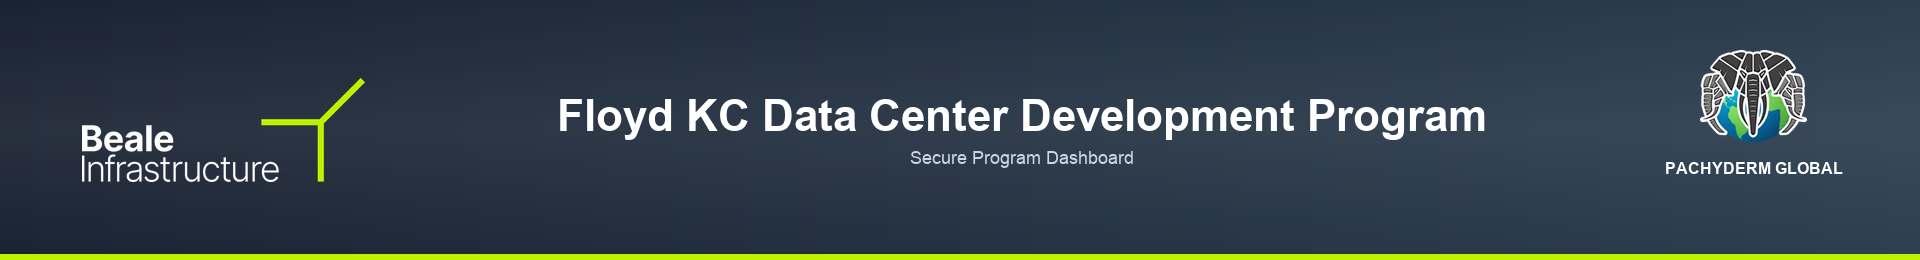
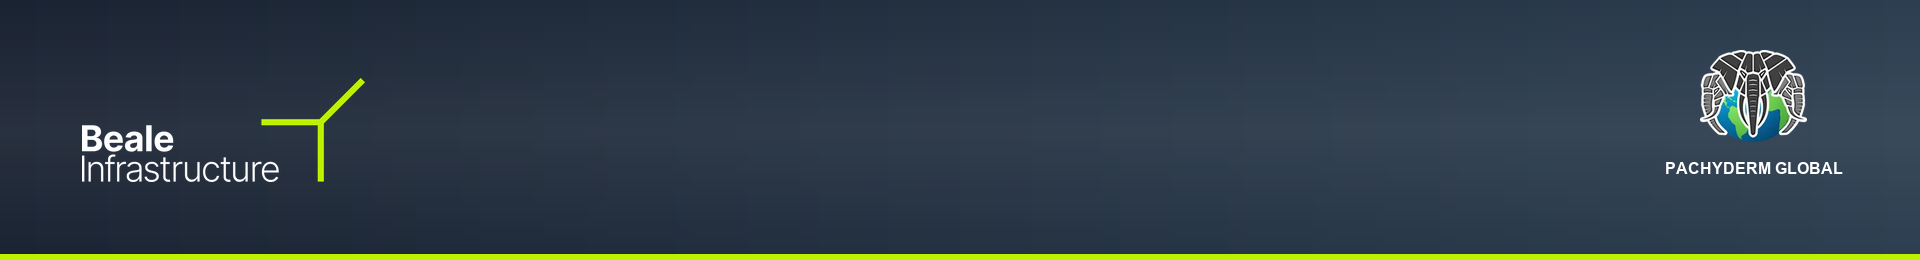
Make common Sites header brand-only

Changed region(s): [[0.2812, 0.3692, 0.7812, 0.5538], [0.4688, 0.5846, 0.5938, 0.6462]]

diff --git a/docs/google-sites-theme-beale-floyd.md b/docs/google-sites-theme-beale-floyd.md
@@ -42,9 +42,9 @@ that theme into future client Sites.
 
 ## Page Structure
 
-- Preferred header approach: insert `assets/google-sites-header-beale-floyd.png`
-  at the top of each Google Sites page or use it as the page header image when the
-  crop behavior is acceptable.
+- Preferred header approach: use `assets/google-sites-header-beale-floyd.png` as
+  brand-only header chrome, then add the page/program title using Google Sites text
+  or page-header controls so titles remain editable per client and per page.
 - Home: embed Apps Script URL without a page parameter, or with `?page=directory`
 - Program Schedule: embed Apps Script URL with `?page=schedule`
 - Future pages: add Sites-level navigation pages first, then embed purpose-built
